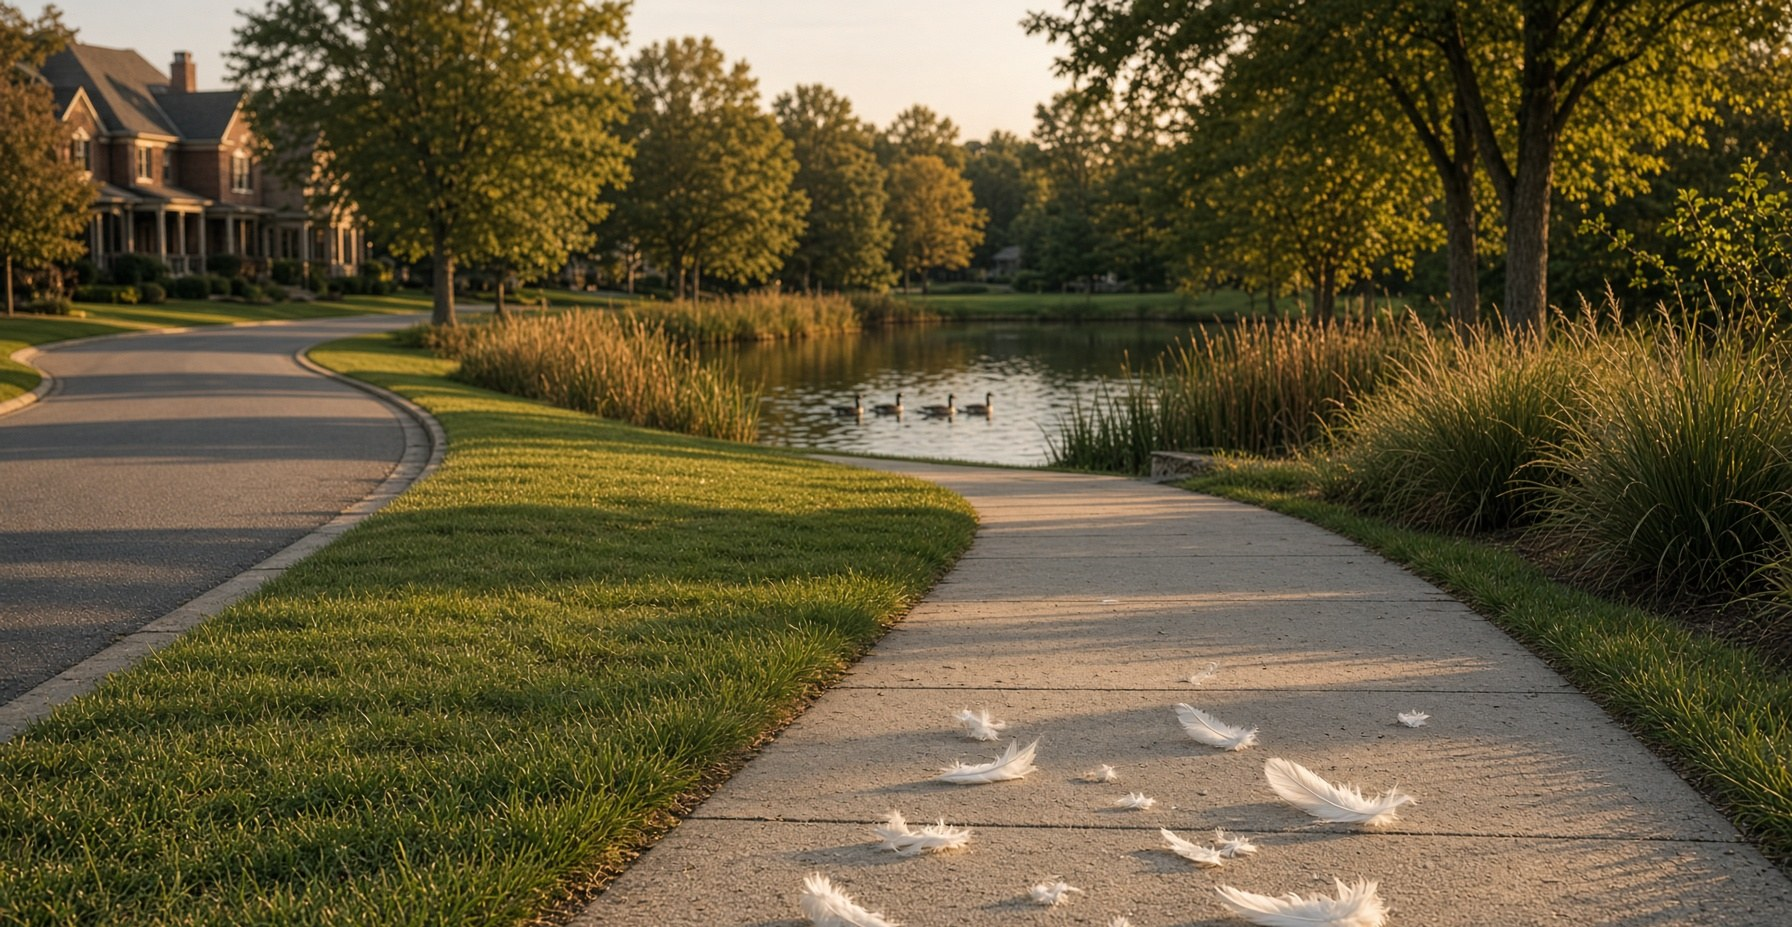
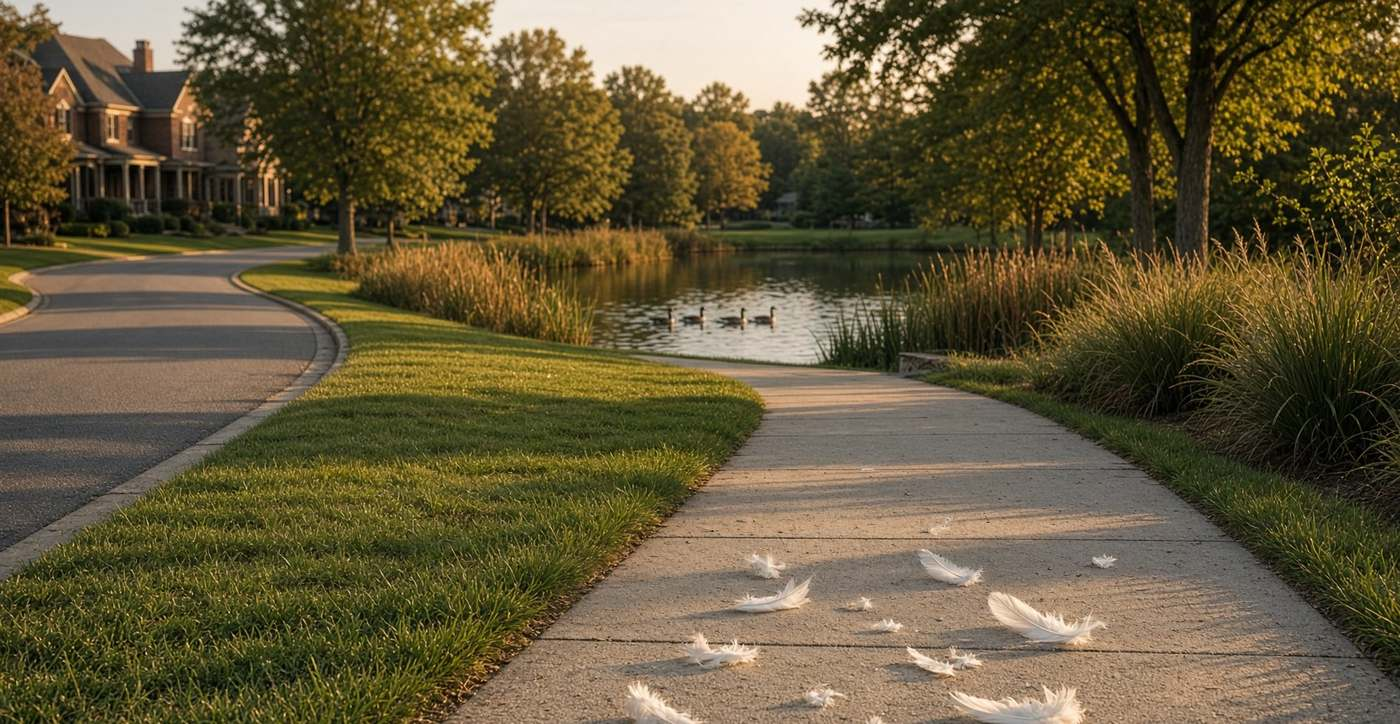
Add Vercel static config and GitHub Pages workflow
Publish docs/ as the production output on Vercel, and ship the
Pages Actions workflow plus recompressed essay images.

Changed region(s): [[0.9521, 0.2127, 0.9829, 0.3039]]

diff --git a/README.md b/README.md
@@ -6,8 +6,11 @@ The piece does not argue that every parent should make the same choice, or that 
 
 ## Live
 
+- **Public site (Vercel):** linked after production deploy
 - **GitHub Pages (static):** https://onnxscibroccoli.github.io/half-a-mile/
 - **Source:** https://github.com/onnxscibroccoli/half-a-mile
+
+GitHub Pages is the `docs/` snapshot. If that URL 404s, enable Pages in the repo: **Settings → Pages → Source: GitHub Actions** (workflow is in `.github/workflows/pages.yml`), or **Deploy from a branch → `main` / `docs`**.
 
 ## Pages
 
@@ -19,13 +22,13 @@ The piece does not argue that every parent should make the same choice, or that 
 
 The app in `src/` is React 19 + TanStack Start + Tailwind CSS v4.
 
-The public static site in `docs/` is a snapshot of those pages (HTML/CSS/images) for GitHub Pages and any static host.
+The public static site in `docs/` is a snapshot of those pages (HTML/CSS/images) for Vercel and GitHub Pages.
 
 ```bash
 npm install
 npm run dev
 npm run build
-node scripts/build-static-pages.mjs   # writes docs/ from the running app
+npm run build:pages   # writes docs/ from the running app
 ```
 
 Not legal advice. Facts are drawn from public reporting and the published Code of Virginia.
